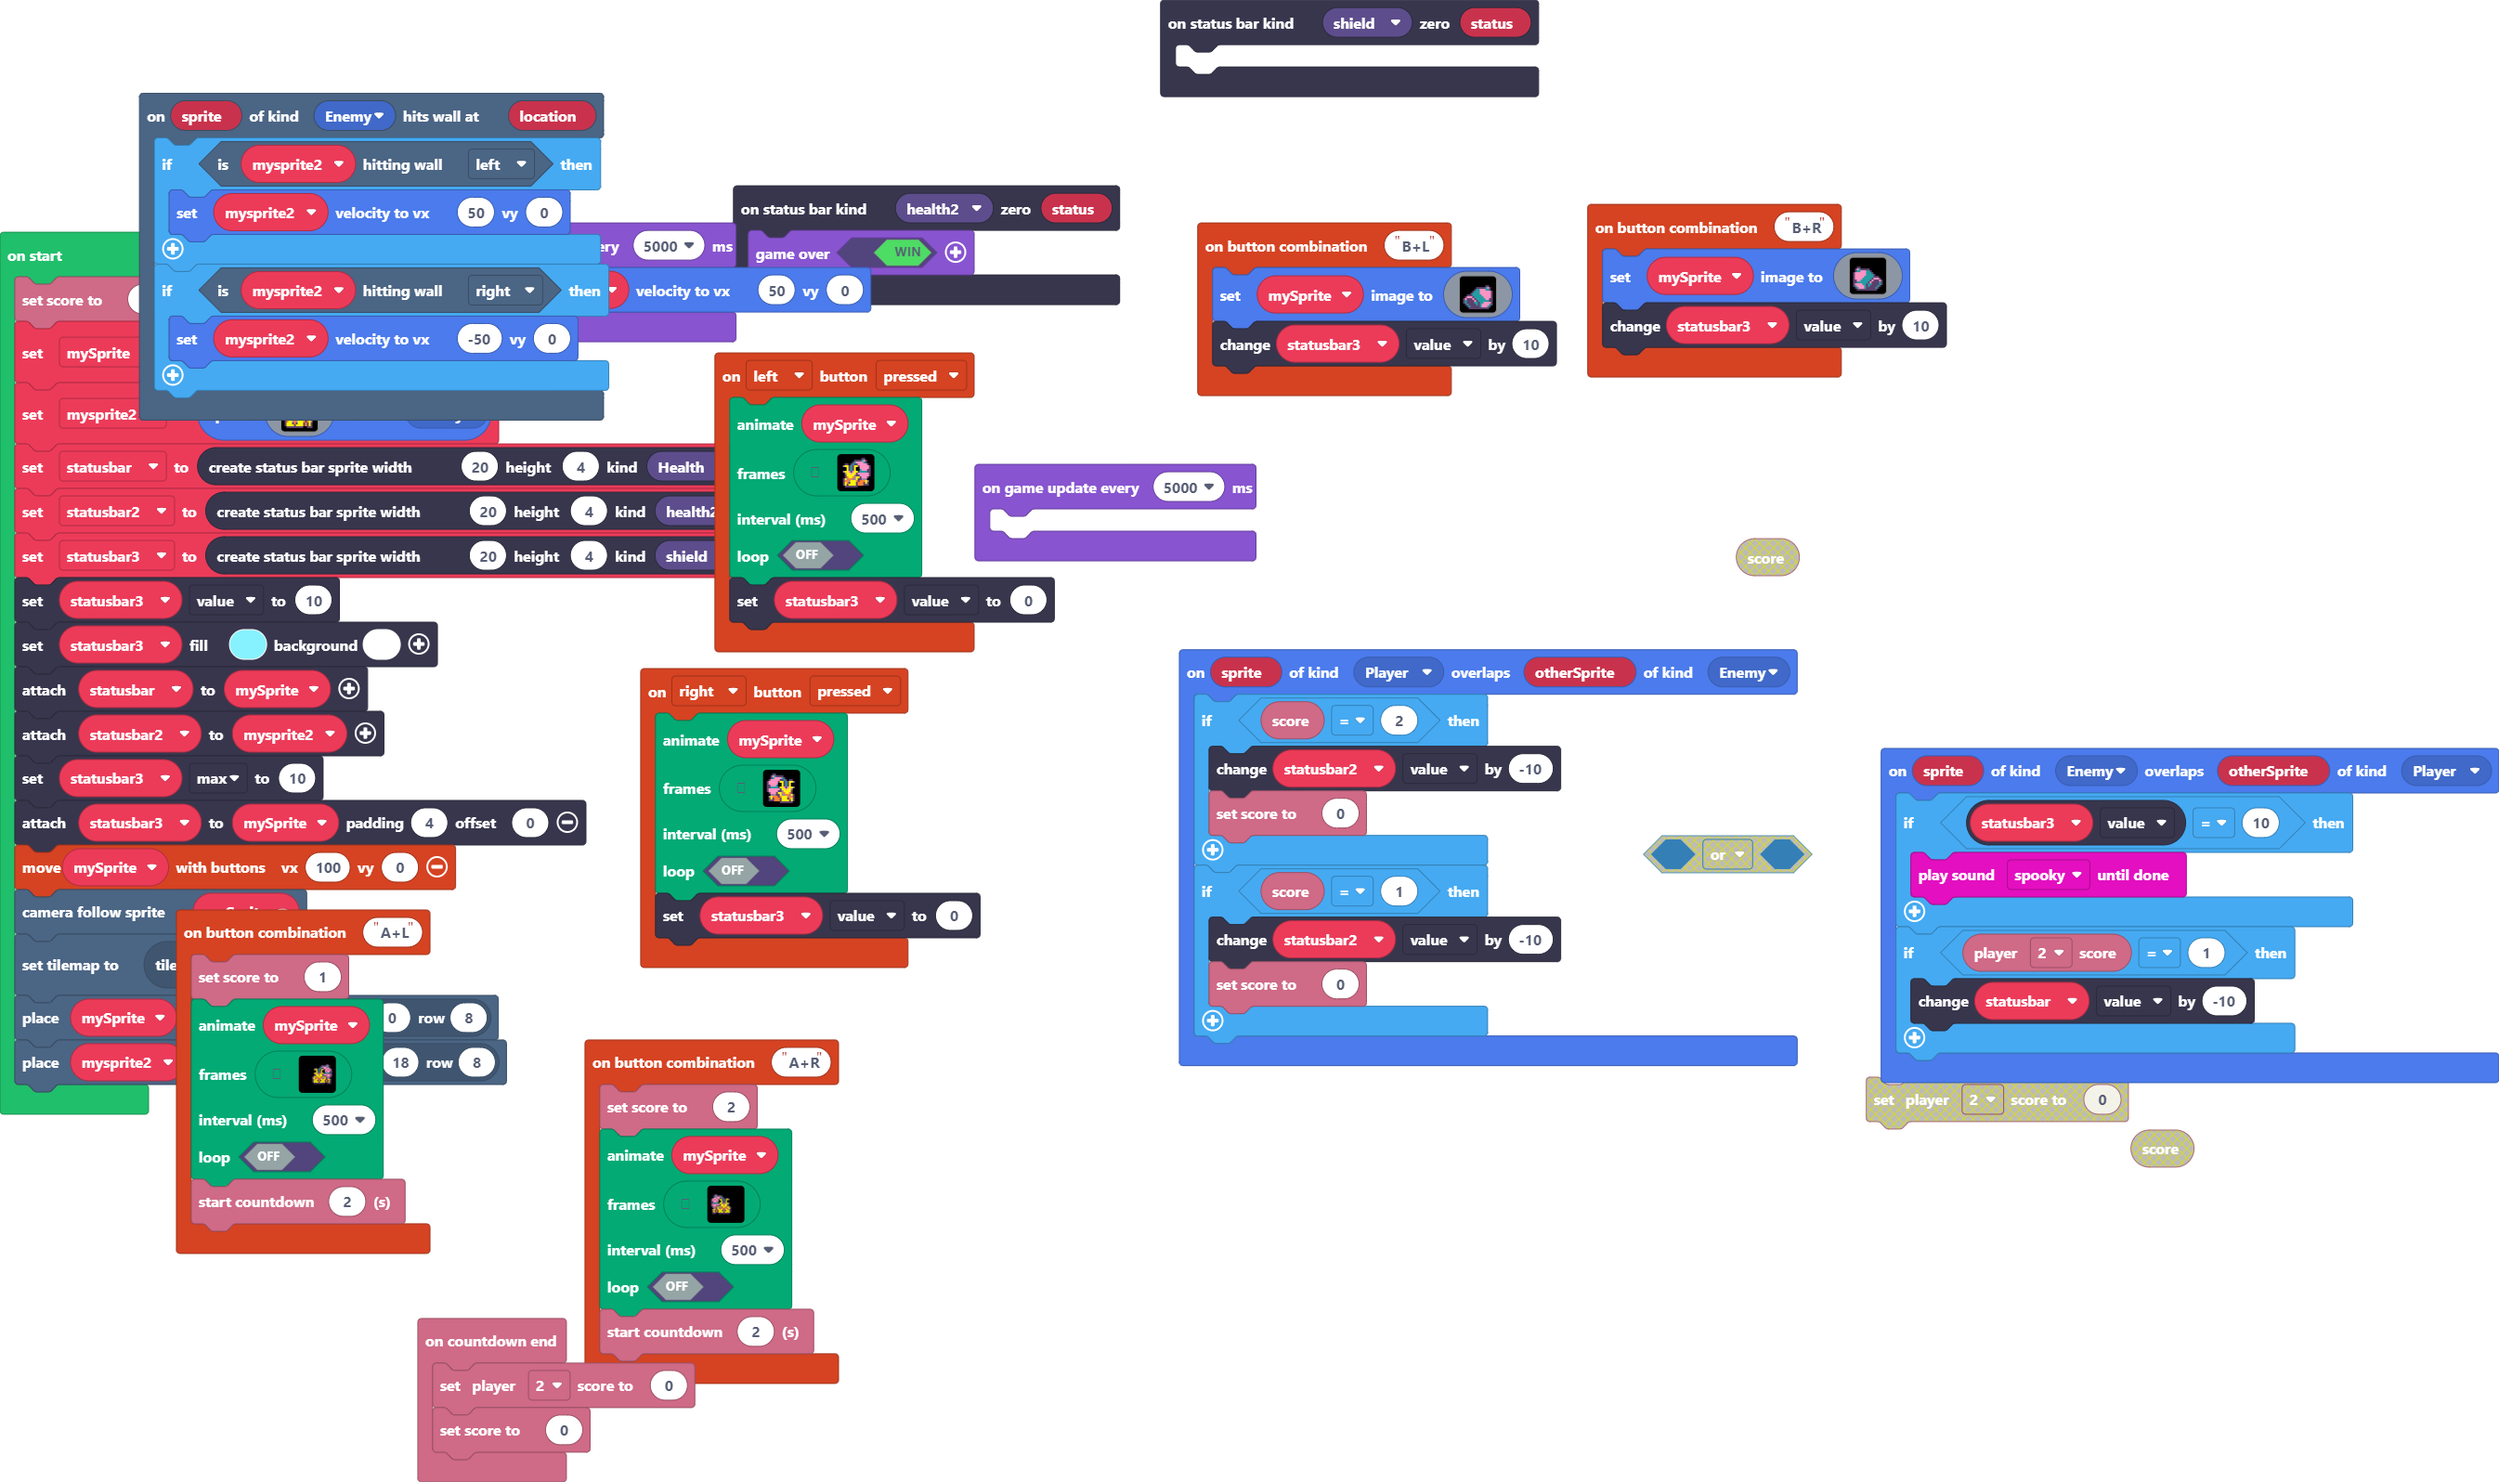
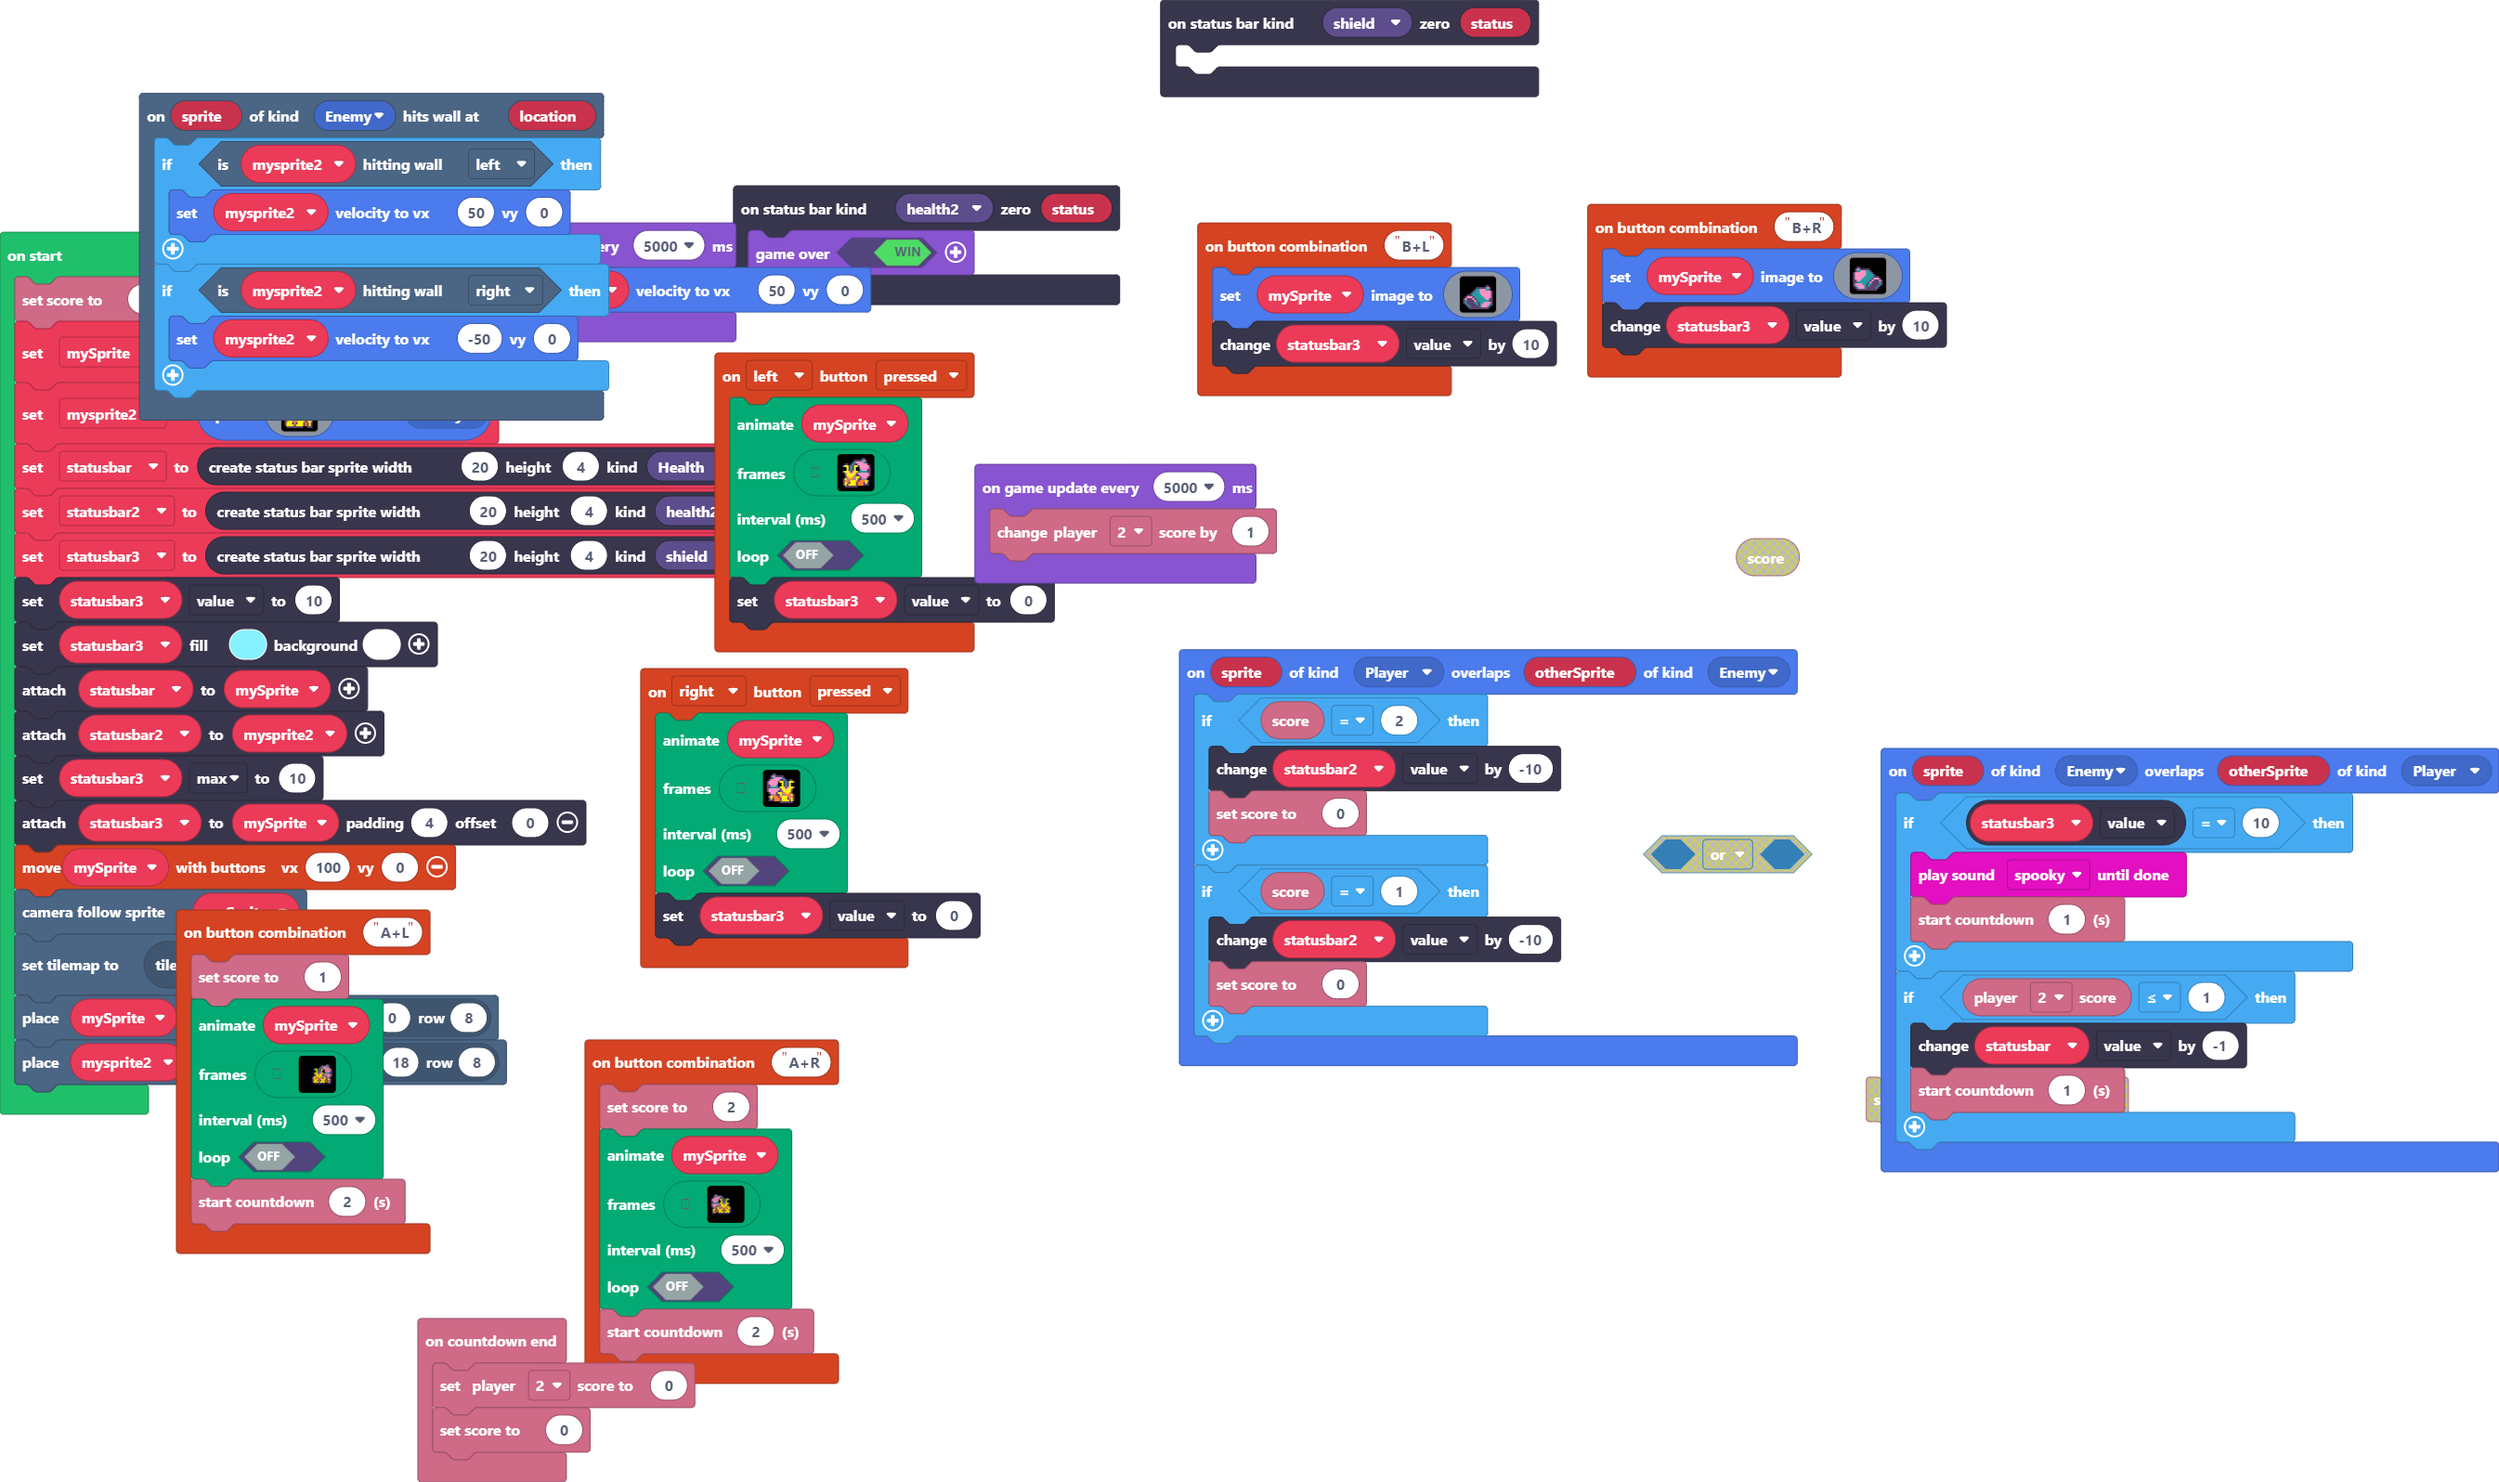
Update main.blocks, main.ts

Changed region(s): [[0.7492, 0.5833, 1.0, 0.7982], [0.3746, 0.3377, 0.5307, 0.3991]]

diff --git a/main.ts b/main.ts
@@ -440,9 +440,11 @@ controller.right.onEvent(ControllerButtonEvent.Pressed, function () {
 sprites.onOverlap(SpriteKind.Enemy, SpriteKind.Player, function (sprite, otherSprite) {
     if (statusbar3.value == 10) {
         music.spooky.playUntilDone()
+        info.startCountdown(1)
     }
-    if (info.player2.score() == 1) {
-        statusbar.value += -10
+    if (info.player2.score() <= 1) {
+        statusbar.value += -1
+        info.startCountdown(1)
     }
 })
 statusbars.onZero(StatusBarKind.shield, function (status) {
@@ -518,5 +520,5 @@ game.onUpdateInterval(5000, function () {
     mysprite2.setVelocity(50, 0)
 })
 game.onUpdateInterval(5000, function () {
-	
+    info.player2.changeScoreBy(1)
 })
